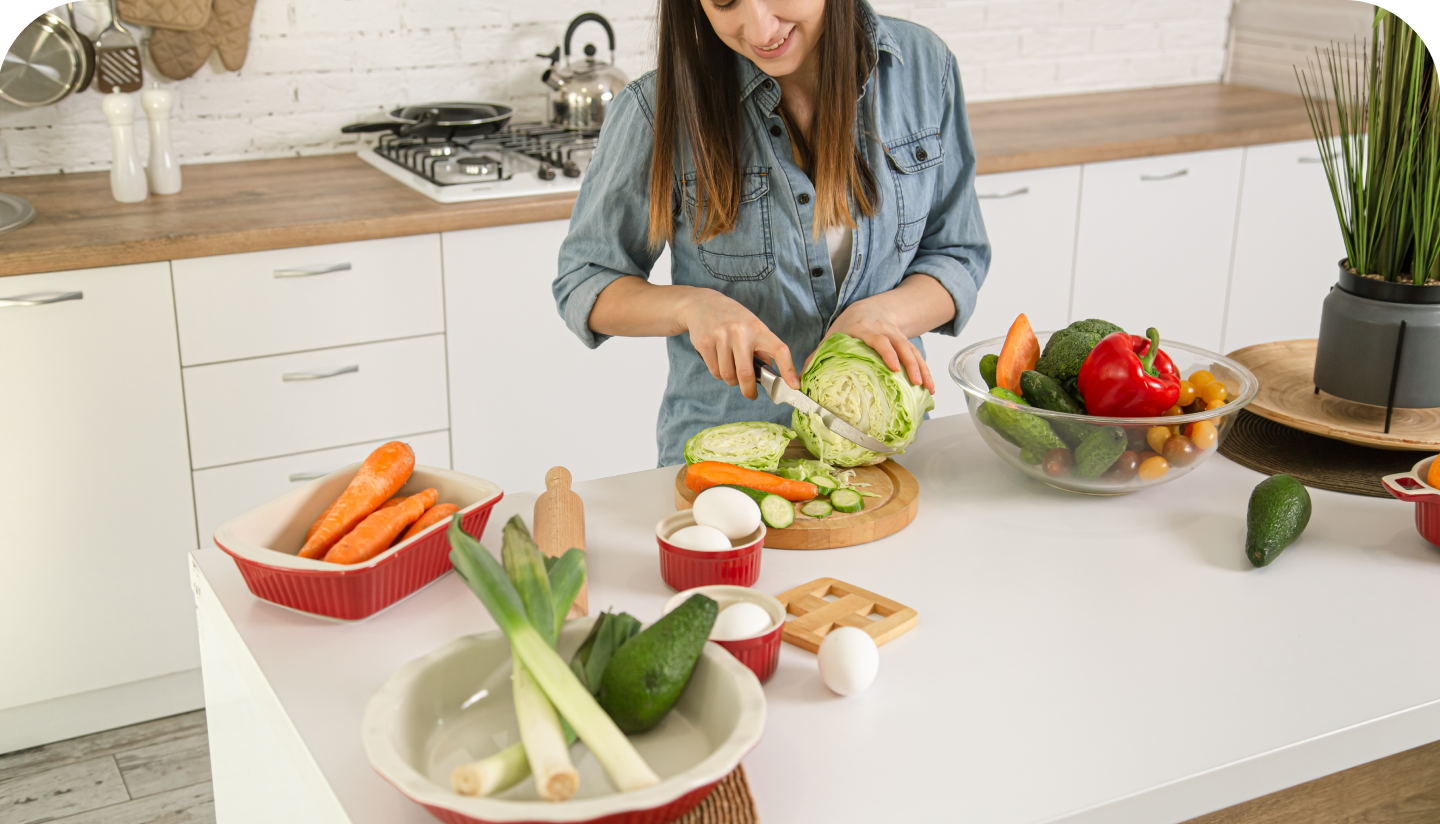
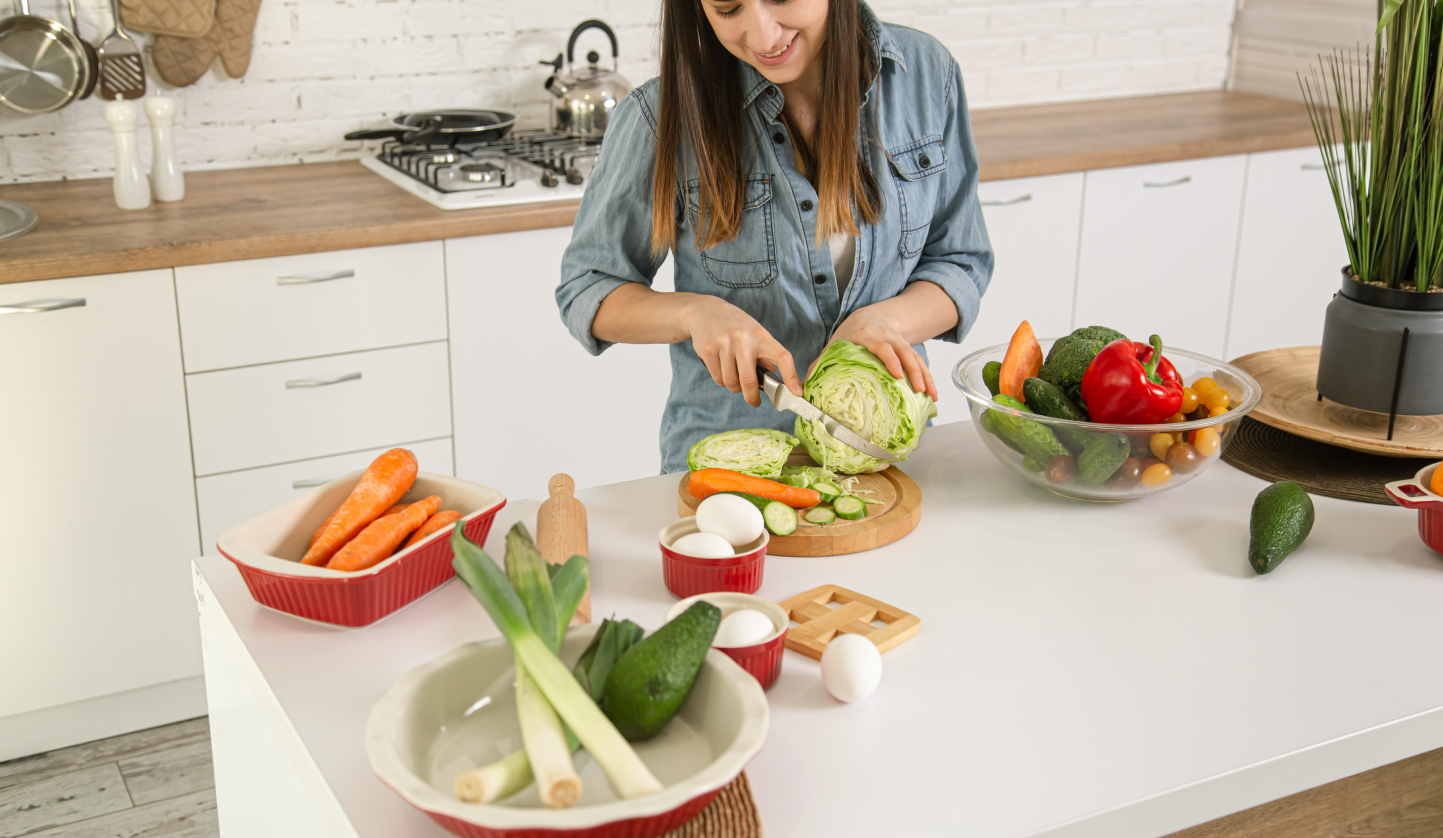
Adding some js functions and finishing swiper section

diff --git a/index.html b/index.html
@@ -16,6 +16,21 @@
     <script src="https://cdn.jsdelivr.net/npm/swiper@11/swiper-bundle.min.js"></script>
     <link rel="stylesheet" href="./styles/style.css" />
     <title>Dr Bactéria - Vida sem Germes</title>
+    <script>
+      !function(f,b,e,v,n,t,s)
+      {if(f.fbq)return;n=f.fbq=function(){n.callMethod?
+      n.callMethod.apply(n,arguments):n.queue.push(arguments)};
+      if(!f._fbq)f._fbq=n;n.push=n;n.loaded=!0;n.version='2.0';
+      n.queue=[];t=b.createElement(e);t.async=!0;
+      t.src=v;s=b.getElementsByTagName(e)[0];
+      s.parentNode.insertBefore(t,s)}(window, document,'script',
+      'https://connect.facebook.net/en_US/fbevents.js');
+      fbq('init', '788385176470510');
+      fbq('track', 'PageView');
+      </script>
+      <noscript><img height="1" width="1" style="display:none"
+      src="https://www.facebook.com/tr?id=788385176470510&ev=PageView&noscript=1"
+      /></noscript>
   </head>
 
   <body>
@@ -48,7 +63,7 @@
               idades
             </p>
           </div>
-          <form class="hero__form">
+          <form class="hero__form" method="post">
             <div class="col-2">
               <input
                 class="default-input"
@@ -231,9 +246,28 @@
               </div>
             </div>
             <div class="swiper-pagination"></div>
-            <div class="swiper-button-prev"></div>
-            <div class="swiper-button-next"></div>
+            <div class="swiper-button-prev swiper-btn"></div>
+            <div class="swiper-button-next swiper-btn"></div>
           </div>
+        </section>
+        <section class="presentation container">
+          <aside class="presentation__img"></aside>
+          <article class="presentation__infos">
+            <img src="./assets/icons/video.svg" alt="" />
+            <p>
+              <em>
+                Temos o prazer de apresentar o evento online "Vida Sem Germes do
+                Mal", uma sessão exclusiva com o Dr. Bactéria,
+              </em>
+              cuja renomada experiência e autoridade em microbiologia são
+              reconhecidas nacionalmente.
+            </p>
+            <p>
+              Ele compromete-se a compartilhar técnicas simples, mas
+              extremamente eficazes, garantindo a segurança e o bem-estar da sua
+              família.
+            </p>
+          </article>
         </section>
       </div>
     </main>

diff --git a/scripts/script.js b/scripts/script.js
@@ -7,7 +7,6 @@ const benefitsSwiper = new Swiper("[data-swiper='advantages']", {
     delay: 5000,
     disableOnInteraction: false,
   },
-  slidesPerView: 3,
   pagination: {
     el: ".swiper-pagination",
     type: "bullets",
@@ -17,7 +16,7 @@ const benefitsSwiper = new Swiper("[data-swiper='advantages']", {
     nextEl: ".swiper-button-next",
     prevEl: ".swiper-button-prev",
   },
-  
+
   breakpoints: {
     320: {
       slidesPerView: 1,
@@ -55,3 +54,33 @@ function setEqualHeight(selector) {
     slide.style.height = maxHeight + "px";
   });
 }
+
+const form = document.querySelector(".hero__form");
+form.addEventListener("submit", (e) => {
+  e.preventDefault();
+
+  const formData = new FormData(form);
+
+  fetch("../send-lead.php", {
+    method: "POST",
+    body: formData,
+  })
+    .then((response) => response.text())
+    .catch((error) => {});
+
+    fetch("../cadastro.php", {
+      method: "POST",
+      body: formData,
+    })
+      .then((response) => response.text())
+      .catch((error) => {});
+    
+});
+
+function activatePixel(phpUrl) {
+  var xhr = new XMLHttpRequest();
+  xhr.open("GET", phpUrl, true);
+  xhr.send();
+}
+
+activatePixel("pageview.php");

diff --git a/styles/swiper.css b/styles/swiper.css
@@ -5,6 +5,7 @@
 
 .advantages__swiper {
   overflow: clip;
+  border-radius: 20px;
 }
 
 .swiper__card {
@@ -19,20 +20,22 @@
   text-transform: uppercase;
 }
 
-.swiper-button-next {
-  transform: scale(-1);
-}
-
 .swiper-button-prev {
   left: -25px;
 }
 
 .swiper-button-next {
+  transform: scale(-1);
   right: -25px;
 }
 
-.swiper-button-next,
-.swiper-button-prev {
+.swiper-btn:hover {
+  background: url("../assets/icons/white-arrow.svg") 15px center no-repeat;
+  background-size: 15px;
+  background-color: var(--e2);
+}
+
+.swiper-btn {
   background: url("../assets/icons/arrow.svg") 15px center no-repeat;
   background-size: 15px;
   background-color: var(--c1);
@@ -40,18 +43,19 @@
   box-shadow: 0 0 16px rgba(0, 0, 0, 0.1);
   color: var(--e1);
   position: absolute;
-  top: 50%;
+  top: 48%;
   width: 50px;
   height: 50px;
+  transition: background 0.4s;
 }
 
-.swiper-button-next::after,
-.swiper-button-prev::after {
+.swiper-btn::after {
   content: "";
 }
 
 .swiper-pagination {
   display: flex;
+  justify-content: center;
   transform: translateY(60px);
   padding: 0 120px;
 }

diff --git a/styles/presentation.css b/styles/presentation.css
@@ -1,0 +1,37 @@
+.presentation {
+  display: flex;
+}
+
+.presentation__img {
+  background: url("../assets/img/kitchen2.png");
+  border-radius: 20px 0 0 20px;
+  clip-path: polygon(
+    0% 0%,
+    100% 0,
+    100% 25%,
+    120% 30%,
+    100% 38%,
+    100% 100%,
+    0 100%
+  );
+  width: 66%;
+}
+
+.presentation__infos {
+  background-color: var(--e1);
+  border-radius: 0 20px 20px 0;
+  color: var(--c1);
+  line-height: 1.63;
+  font-size: 18px;
+  padding: 50px 70px 70px 50px;
+  width: 35%;
+}
+
+.presentation__infos p {
+  margin-top: 30px;
+}
+
+.presentation__infos em {
+  display: block;
+  font-weight: 900;
+}

diff --git a/styles/style.css b/styles/style.css
@@ -3,6 +3,7 @@
 @import url("hero.css");
 @import url("advantages.css");
 @import url("swiper.css");
+@import url("presentation.css");
 
 :root {
   --e1: #ee6c22;

diff --git a/styles/hero.css b/styles/hero.css
@@ -65,7 +65,3 @@
 .hero__image {
   height: auto;
 }
-
-.swiper {
-  background-color: red;
-}
